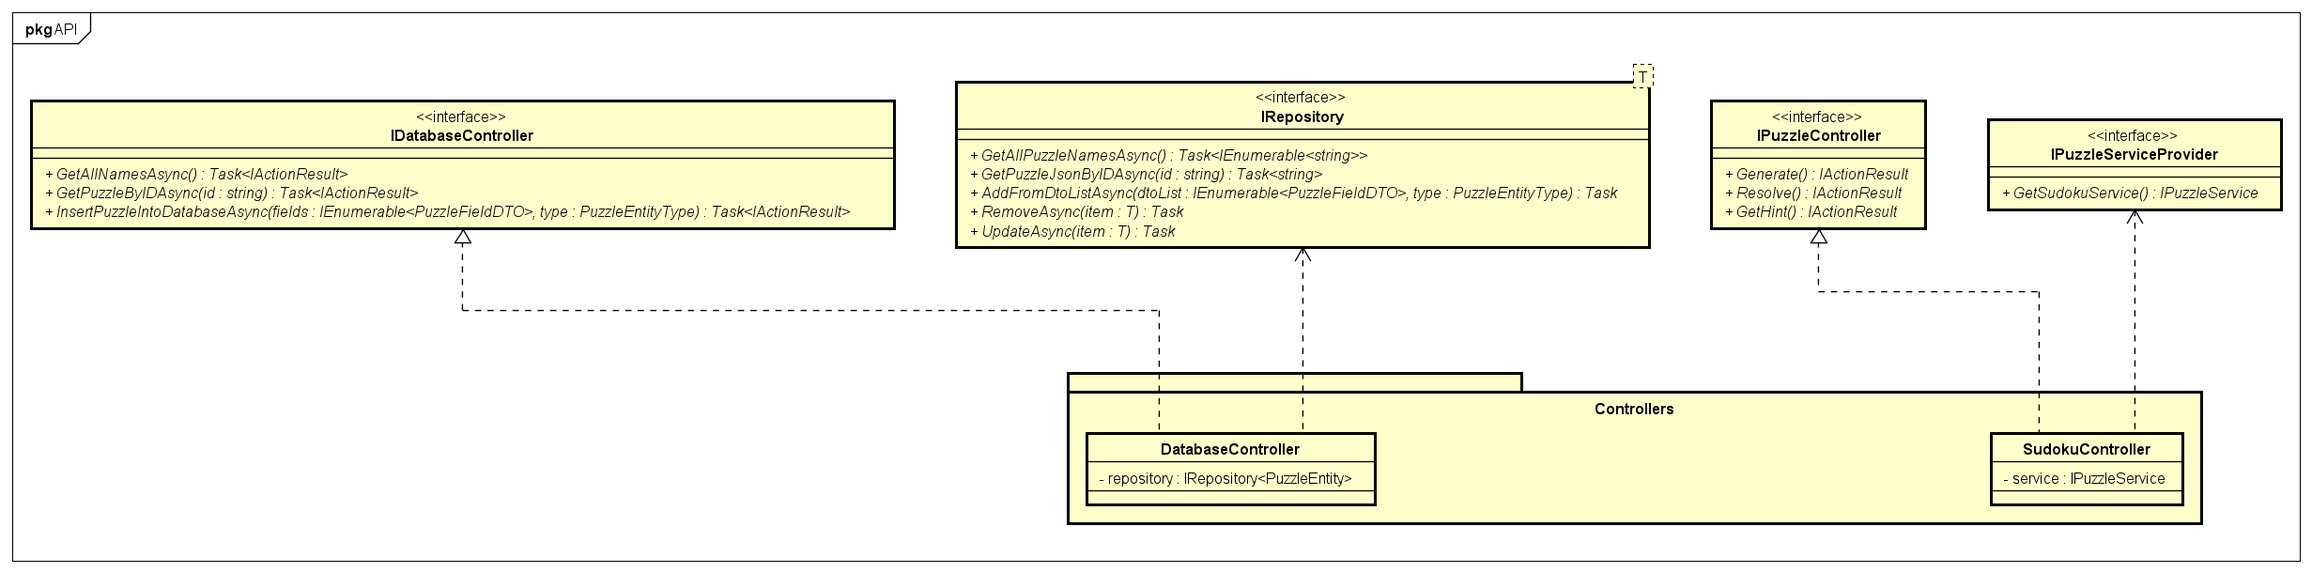
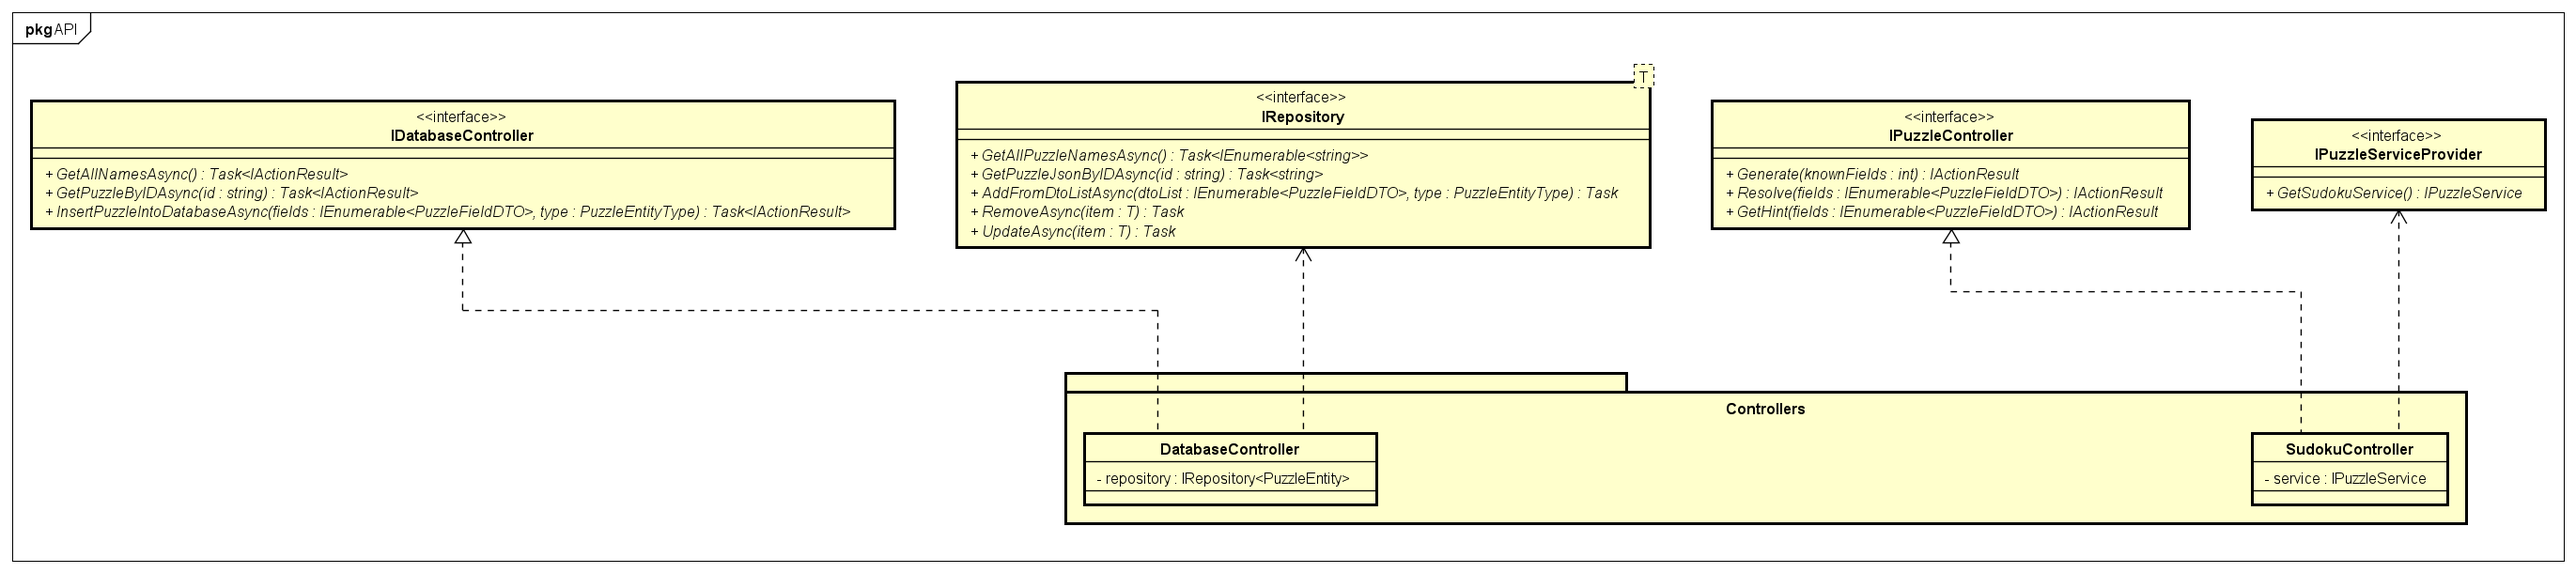
ontwerpen

diff --git a/PuzzleSolver-API/PuzzleSolver.API/Controllers/SudokuController.cs b/PuzzleSolver-API/PuzzleSolver.API/Controllers/SudokuController.cs
@@ -20,7 +20,7 @@ namespace PuzzleSolver.API.Controllers
         [HttpGet, Route("Generate")]
         public IActionResult Generate(int knownFields)
         {
-            return Ok(service.Generate(knownFields).GetContentAsJson());
+            return Ok(service.Generate(knownFields));
         }
 
         [HttpPost, Route("GetHint")]
@@ -33,7 +33,7 @@ namespace PuzzleSolver.API.Controllers
         public IActionResult Resolve([FromBody] IEnumerable<PuzzleFieldDTO> fields)
         {
             var puzzle = service.Resolve(fields);
-            return Ok(puzzle.Fields.Select(x => new PuzzleFieldDTO() { Value = x.Value }).ToList());
+            return Ok(puzzle.Fields.Select(x => x.ToDTO()).ToList());
         }
     }
 }

diff --git a/PuzzleSolver-API/PuzzleSolver.Core/PuzzleService.cs b/PuzzleSolver-API/PuzzleSolver.Core/PuzzleService.cs
@@ -22,15 +22,15 @@ namespace PuzzleSolver.Core
 
         public PuzzleTemplate Generate(int knownFields)
         {
-            var isPuzzleValid = false;
+            var puzzleIsValid = false;
             var puzzle = generator.Generate(knownFields);
 
-            while (!isPuzzleValid)
+            while (!puzzleIsValid)
             {
                 try
                 {
                     resolver.Resolve(puzzle.Fields.Select(item => item.ToDTO()));
-                    isPuzzleValid = true;
+                    puzzleIsValid = true;
                 }
                 catch
                 {
